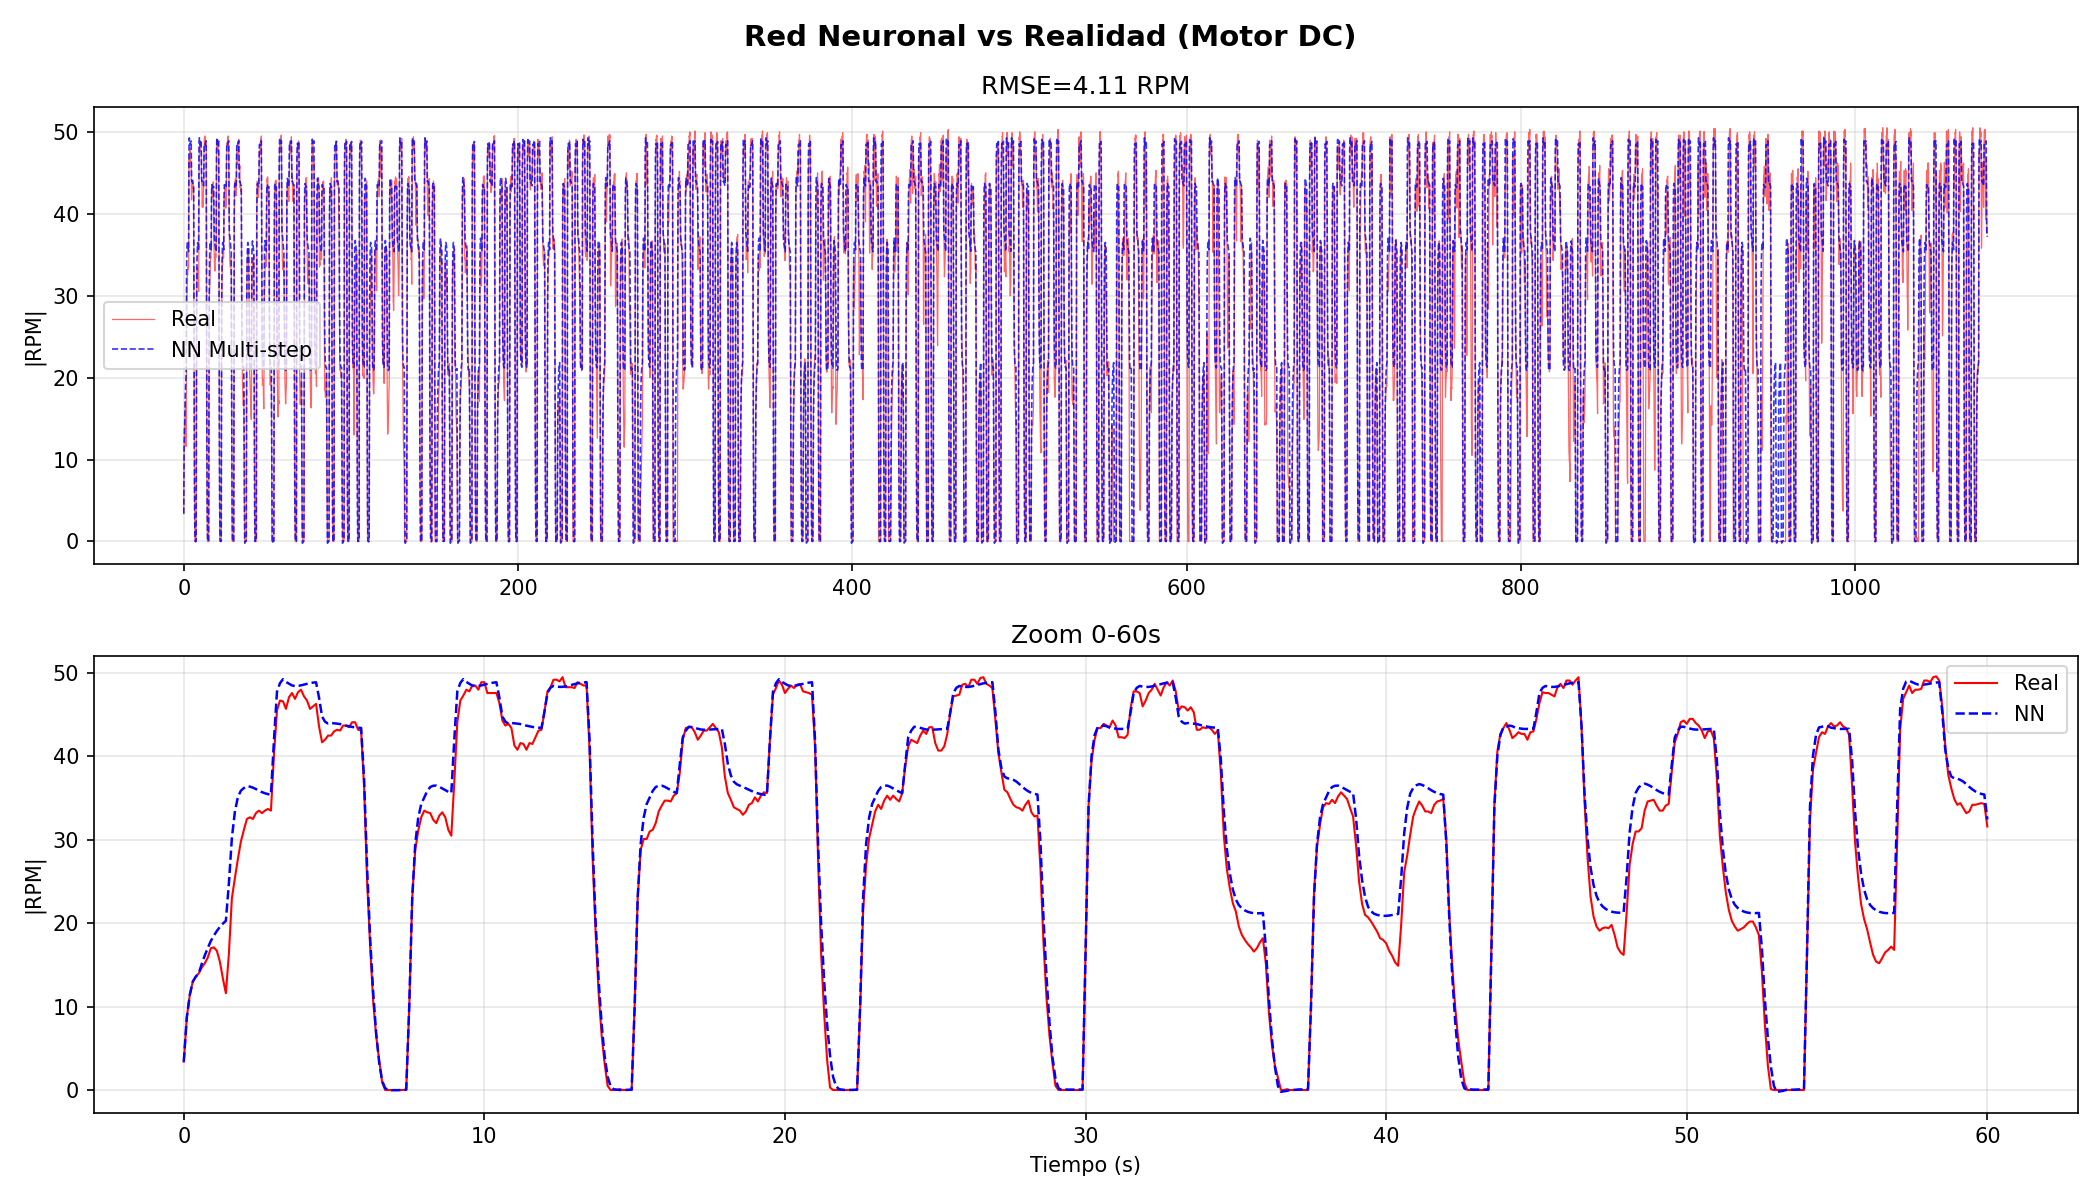
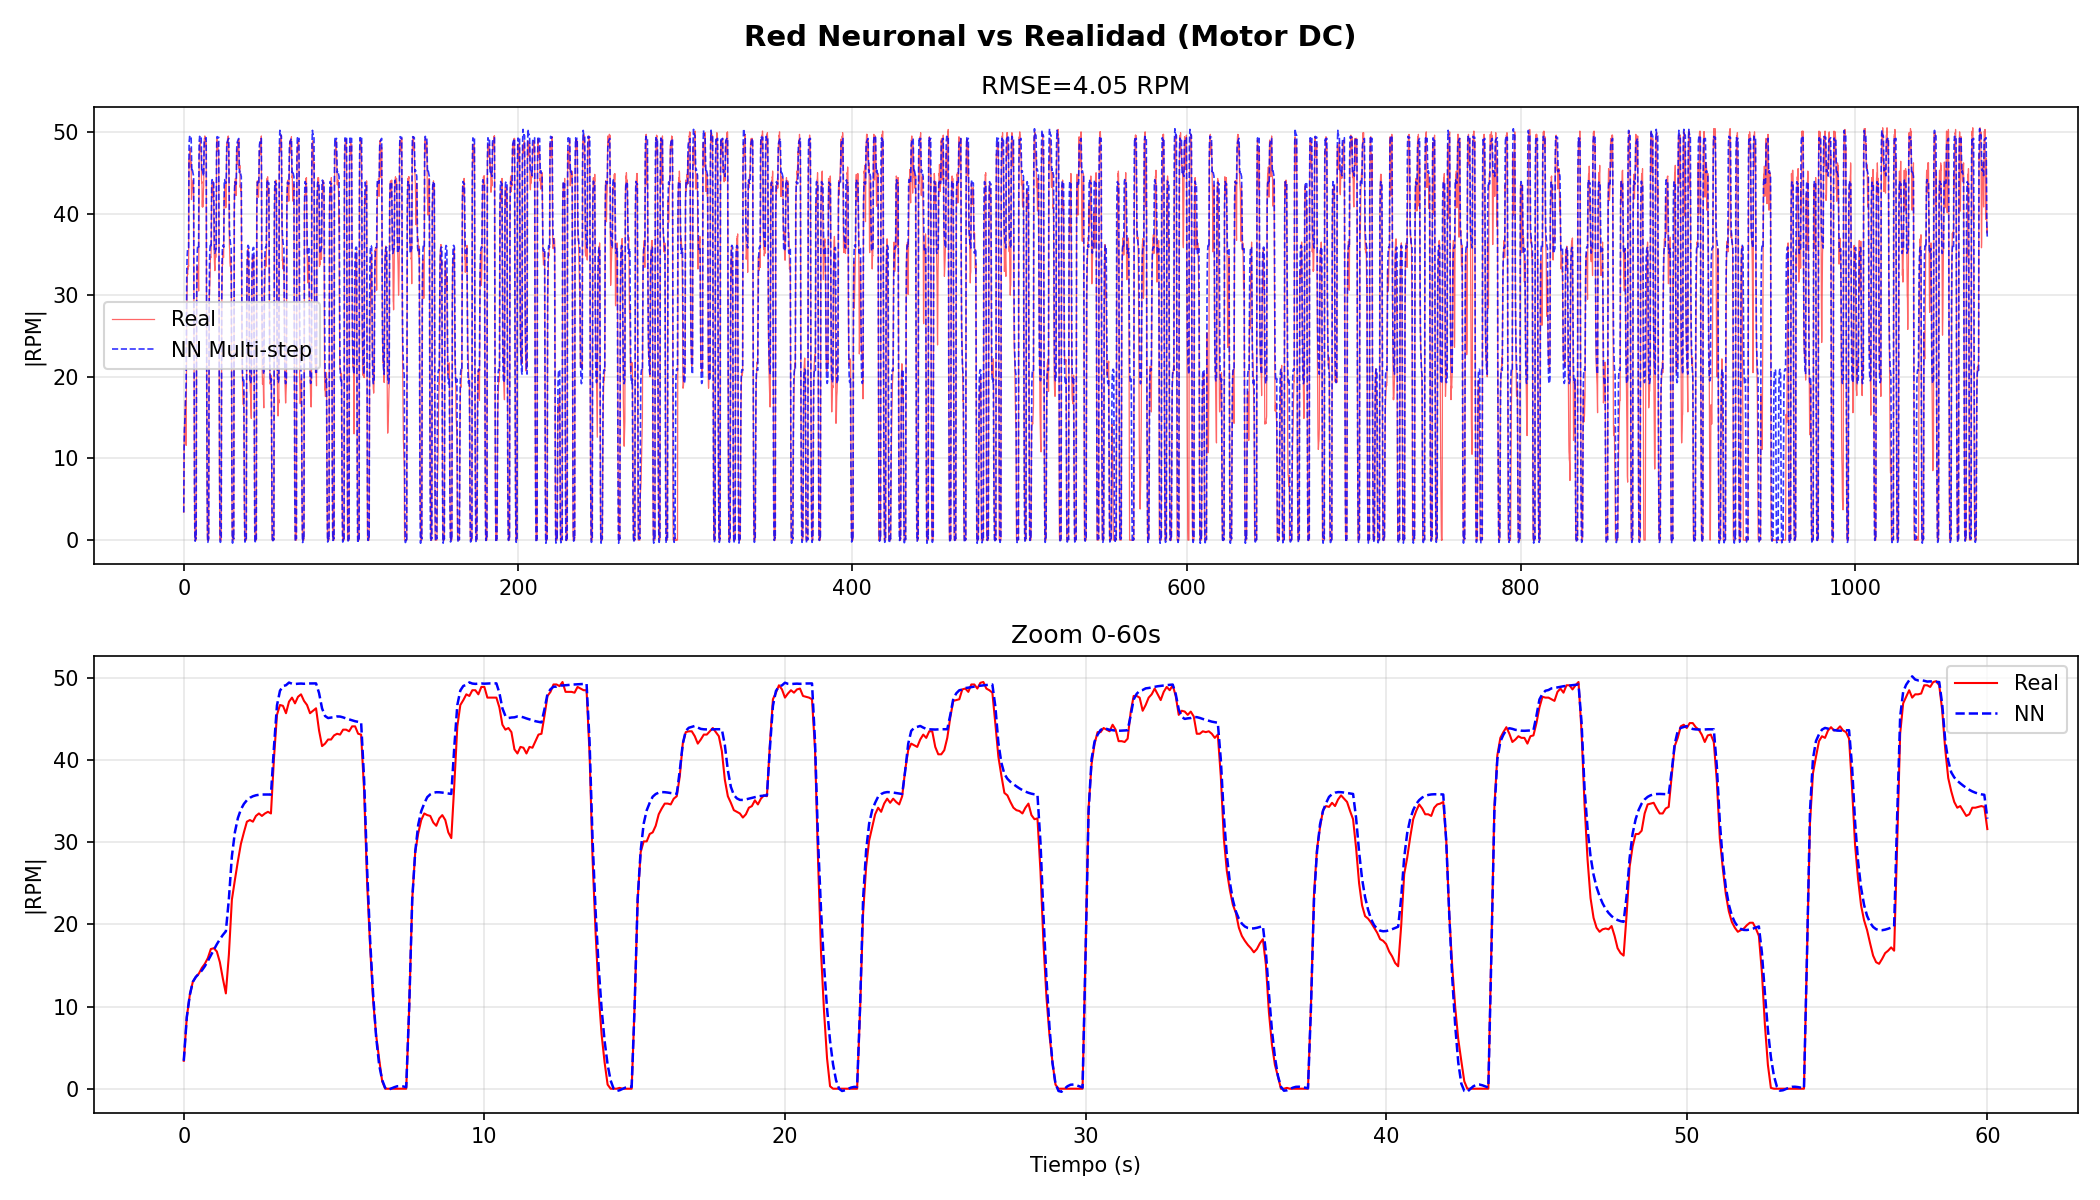
Update motor NN sysid: pathlib paths and multi-point stable operating point search

diff --git a/Moderno/NN/02_motor_sysid_nn.py b/Moderno/NN/02_motor_sysid_nn.py
@@ -11,6 +11,7 @@ import matplotlib
 matplotlib.use('TkAgg')
 import matplotlib.pyplot as plt
 import scipy.io
+from pathlib import Path
 
 # ==============================================================
 # CONFIG
@@ -24,9 +25,10 @@ LR        = 1e-3
 BATCH     = 256
 Ts        = 0.1
 
-FILE_TRAIN = "PRBS_Motor1.csv"
-FILE_VAL   = "PRBS_Motor2.csv"
-FILE_TEST  = "PRBS_Motor3.csv"
+BASE       = Path(__file__).parent
+FILE_TRAIN = BASE / "PRBS_Motor1.csv"
+FILE_VAL   = BASE / "PRBS_Motor2.csv"
+FILE_TEST  = BASE / "PRBS_Motor3.csv"
 
 # ==============================================================
 # PASO 1: CARGAR Y LIMPIAR
@@ -102,12 +104,12 @@ def train_model(model, train_dl, val_dl, epochs=EPOCHS, lr=LR):
 
         if v_loss < best_val:
             best_val = v_loss
-            torch.save(model.state_dict(), 'motor_identifier.pth')
+            torch.save(model.state_dict(), BASE / 'motor_identifier.pth')
 
         if (epoch + 1) % 25 == 0 or epoch == 0:
             print(f"  Epoch {epoch+1:3d}/{epochs}: train={t_loss:.6f}  val={v_loss:.6f}")
 
-    model.load_state_dict(torch.load('motor_identifier.pth'))
+    model.load_state_dict(torch.load(BASE / 'motor_identifier.pth'))
     return history
 
 # ==============================================================
@@ -129,40 +131,61 @@ def simulate_multistep(model, df, window=WINDOW):
 # ==============================================================
 # PASO 5: EXTRAER ESPACIO DE ESTADOS (JACOBIANO)
 # ==============================================================
-def extract_state_space(model, pwm_op, rpm_op, window=WINDOW):
-    pwm_n = pwm_op / PWM_MAX
-    rpm_n = rpm_op / RPM_MAX
+def extract_state_space(model, window=WINDOW):
+    candidates = [
+        (75.0, 28.0),
+        (60.0, 22.0),
+        (90.0, 30.0),
+        (90.0, 35.0),
+        (80.0, 25.0),
+        (100.0, 38.0),
+    ]
 
-    pwm_vec = torch.full((window + 1,), pwm_n, dtype=torch.float32)
-    rpm_vec = torch.full((window + 1,), rpm_n, dtype=torch.float32, requires_grad=True)
+    all_eigs = []
+    for pwm_op, rpm_op in candidates:
+        pwm_n = pwm_op / PWM_MAX
+        rpm_n = rpm_op / RPM_MAX
 
-    feat = torch.cat([pwm_vec, rpm_vec]).unsqueeze(0)
+        pwm_vec = torch.full((window + 1,), pwm_n, dtype=torch.float32)
+        rpm_vec = torch.full((window + 1,), rpm_n, dtype=torch.float32)
 
-    feat_var = feat.clone().detach().requires_grad_(True)
-    out = model(feat_var)
-    out.backward()
-    grad = feat_var.grad.squeeze().numpy()
+        feat = torch.cat([pwm_vec, rpm_vec]).unsqueeze(0)
+        feat_var = feat.clone().detach().requires_grad_(True)
+        out = model(feat_var)
+        out.backward()
+        grad = feat_var.grad.squeeze().numpy()
 
-    dfdpwm = grad[:window + 1]
-    dfdrpm = grad[window + 1:]
+        dfdpwm = grad[:window + 1]
+        dfdrpm = grad[window + 1:]
 
-    n_states = window + 1
-    A = np.zeros((n_states, n_states))
-    A[0, :] = dfdrpm[::-1]
-    for i in range(1, n_states):
-        A[i, i - 1] = 1.0
+        n_states = window + 1
+        A = np.zeros((n_states, n_states))
+        A[0, :] = dfdrpm[::-1]
+        for i in range(1, n_states):
+            A[i, i - 1] = 1.0
 
-    B = np.zeros((n_states, 1))
-    B[0, 0] = dfdpwm[-1]
+        B = np.zeros((n_states, 1))
+        B[0, 0] = dfdpwm[-1]
 
-    C = np.zeros((1, n_states))
-    C[0, 0] = 1.0
+        C = np.zeros((1, n_states))
+        C[0, 0] = 1.0
 
-    D = np.zeros((1, 1))
+        D = np.zeros((1, 1))
 
-    B_real = B * (RPM_MAX / PWM_MAX)
+        B_real = B * (RPM_MAX / PWM_MAX)
 
-    return A, B_real, C, D
+        eigs = np.abs(np.linalg.eigvals(A))
+        all_eigs.append((pwm_op, rpm_op, eigs))
+
+        if all(eigs < 1):
+            print(f"  Punto de operación seleccionado: PWM={pwm_op}, RPM={rpm_op}")
+            print(f"  |eigenvalues|: {eigs.round(4)}")
+            return A, B_real, C, D
+
+    print("  Ningún punto de operación produjo un sistema estable:")
+    for pwm_op, rpm_op, eigs in all_eigs:
+        print(f"    PWM={pwm_op}, RPM={rpm_op}: |eigs|={eigs.round(4)}")
+    raise ValueError("No se encontró un punto de operación estable en ninguno de los candidatos.")
 
 # ==============================================================
 # MAIN — CORRE TODO
@@ -213,16 +236,14 @@ if __name__ == '__main__':
 
     # Espacio de estados
     print("\n[5/5] Extrayendo espacio de estados...")
-    A, B, C, D = extract_state_space(model, pwm_op=90.0, rpm_op=35.0)
-    
-    # --- AQUI ESTA EL CAMBIO PARA CREAR EL .MAT ---
-    scipy.io.savemat('state_space_motor.mat', {'A': A, 'B': B, 'C': C, 'D': D, 'Ts': Ts})
+    A, B, C, D = extract_state_space(model)
+    scipy.io.savemat(BASE / 'state_space_motor.mat', {'A': A, 'B': B, 'C': C, 'D': D, 'Ts': Ts})
+    np.savez(BASE / 'state_space_motor.npz', A=A, B=B, C=C, D=D, Ts=Ts)
 
     print(f"\n  Matriz A:\n{np.array2string(A, precision=4)}")
     print(f"\n  Matriz B:\n{np.array2string(B, precision=4)}")
 
     eigs = np.abs(np.linalg.eigvals(A))
-    print(f"\n  |eigenvalues|: {eigs.round(4)}")
     print(f"  Sistema {'ESTABLE' if all(eigs < 1) else 'INESTABLE'}")
 
     print(f"\n  Archivos guardados:")
@@ -260,7 +281,7 @@ if __name__ == '__main__':
     axes[1].grid(True, alpha=0.3)
 
     plt.tight_layout()
-    plt.savefig('motor_nn_results.png', dpi=150)
+    plt.savefig(BASE / 'motor_nn_results.png', dpi=150)
     plt.show()
 
     
